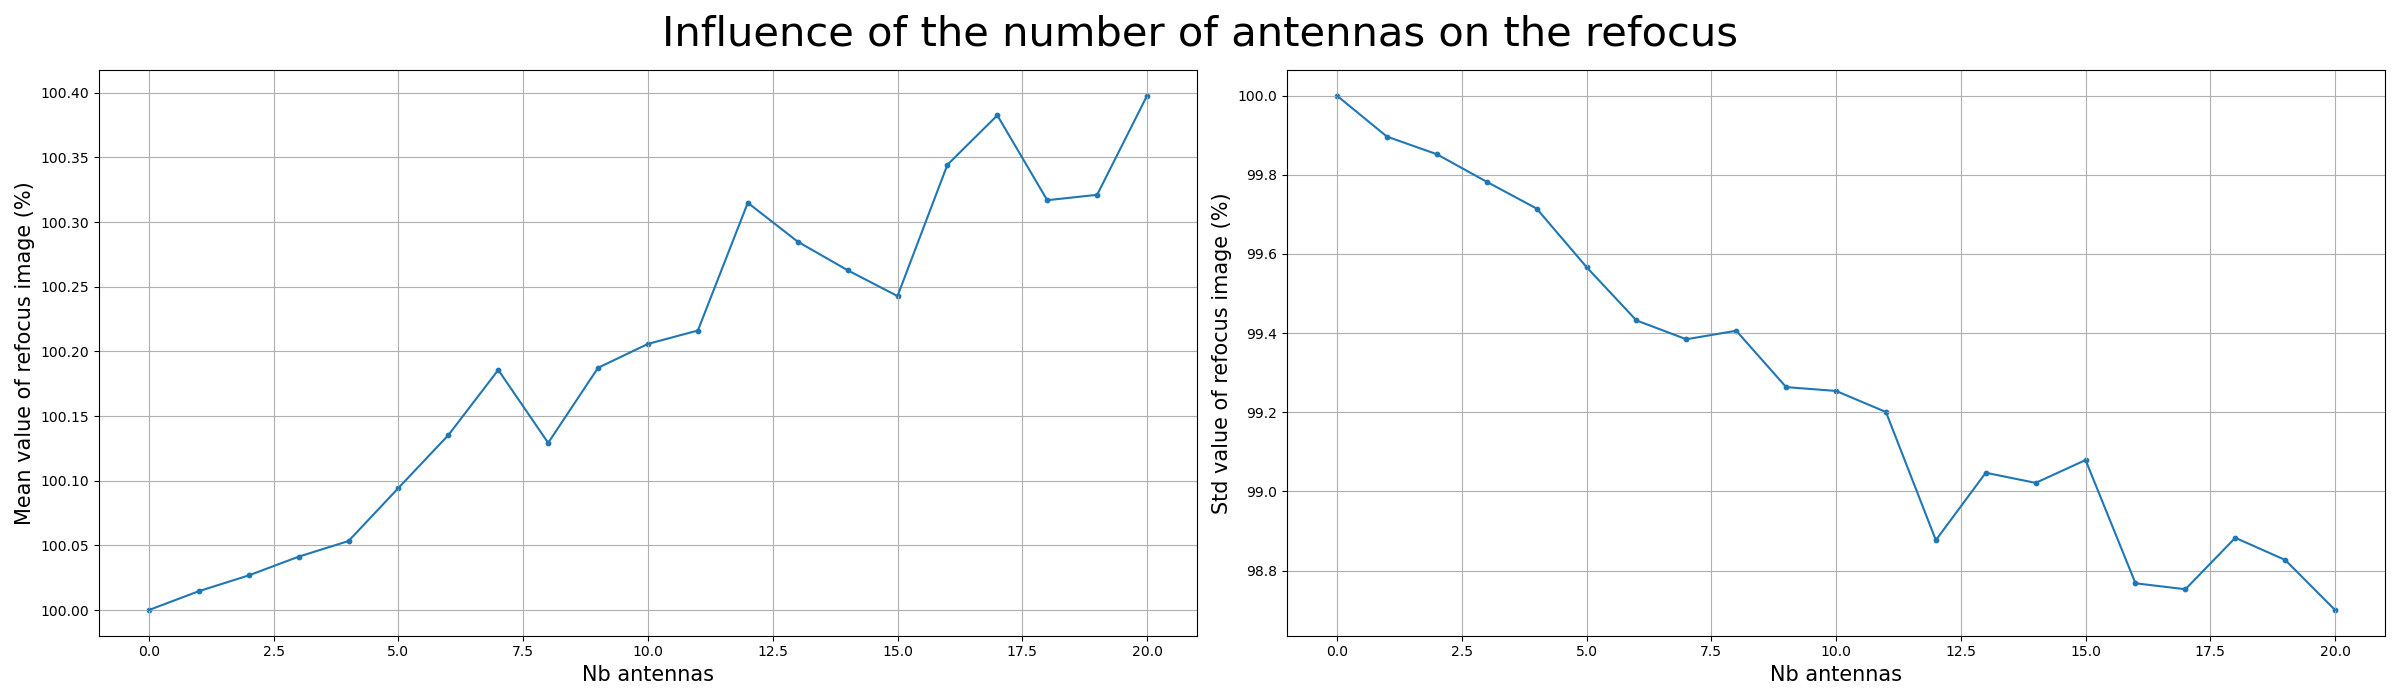
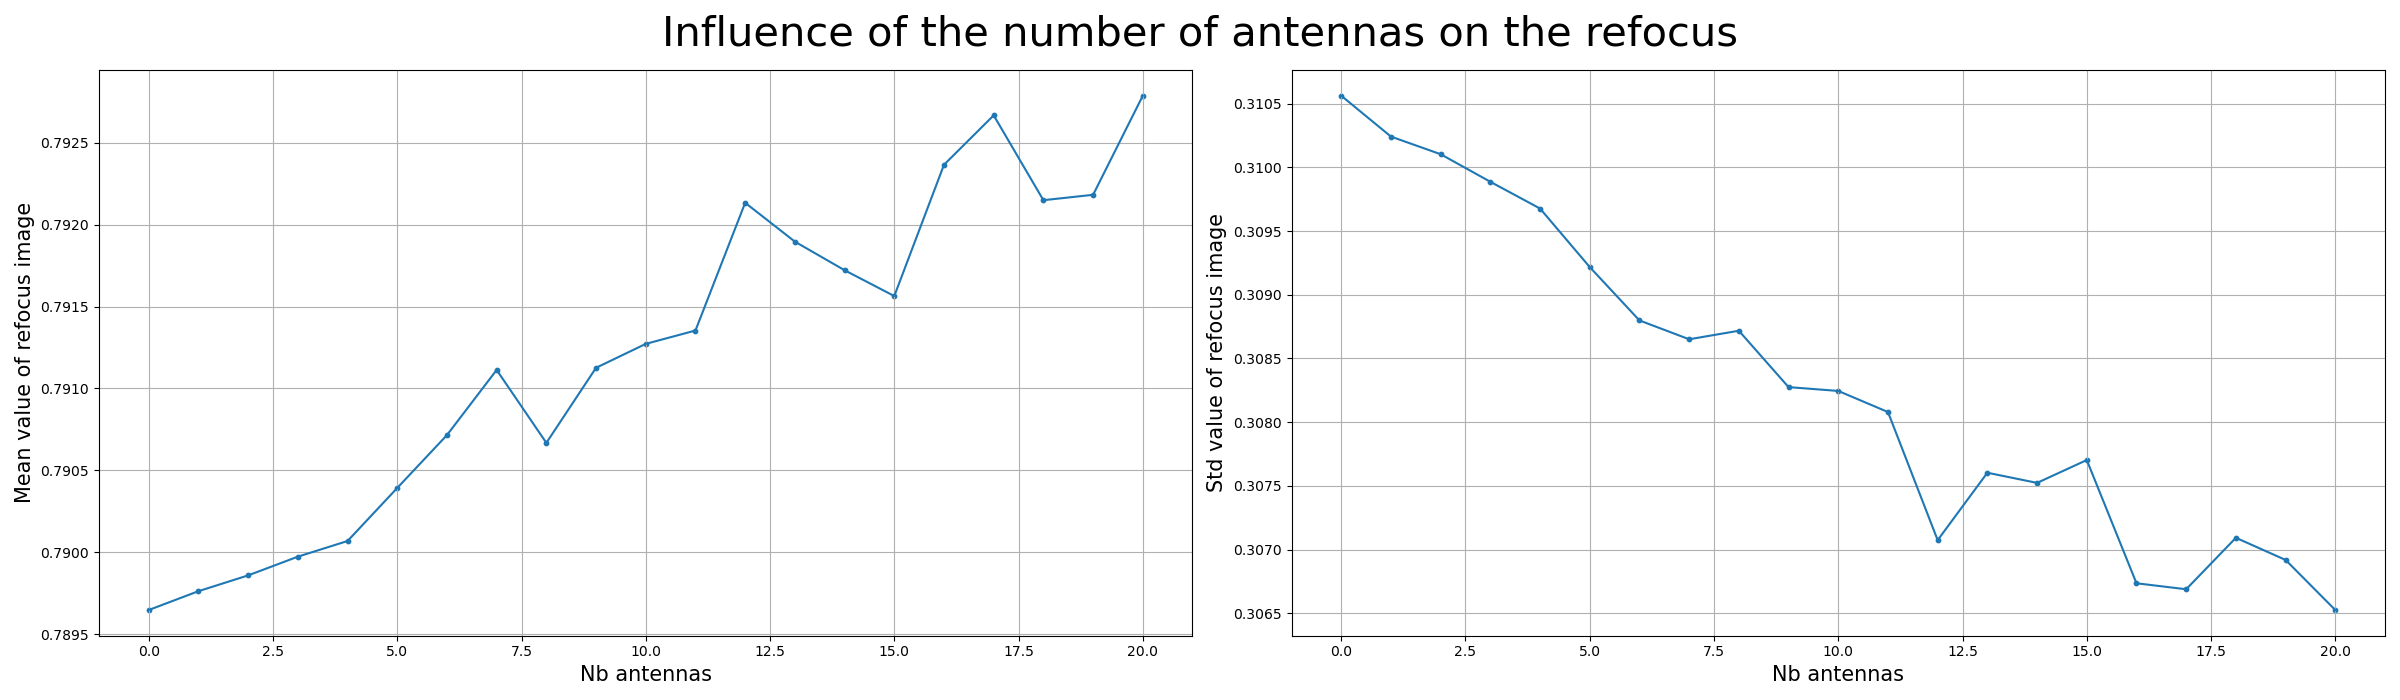
gif files modification

diff --git a/graphs.py b/graphs.py
@@ -24,20 +24,20 @@ def fig_analysis(path):
         fig_path = os.getcwd() + '/' + path + "/" + fig
         im = plt.imread(fig_path)
         antennas_list.append(int(fig.split('antennas')[0]))
-        means.append(100*np.mean(im)/mean_0)
-        stds.append(100*np.std(im)/std_0)
+        means.append(np.mean(im))
+        stds.append(np.std(im))
     
     fig, ax = plt.subplots(1, 2, figsize=(24, 7))
     ax[0].plot(antennas_list, means)
     ax[0].scatter(antennas_list, means, s=10)
     ax[0].set_xlabel("Nb antennas", fontsize=15)
-    ax[0].set_ylabel("Mean value of refocus image (%)", fontsize=15)
+    ax[0].set_ylabel("Mean value of refocus image", fontsize=15)
     ax[0].grid()
 
     ax[1].plot(antennas_list, stds)
     ax[1].scatter(antennas_list, stds, s=10)
     ax[1].set_xlabel("Nb antennas", fontsize=15)
-    ax[1].set_ylabel("Std value of refocus image (%)", fontsize=15)
+    ax[1].set_ylabel("Std value of refocus image", fontsize=15)
     ax[1].grid()
 
     fig.suptitle("Influence of the number of antennas on the refocus", fontsize=30)

diff --git a/main.py b/main.py
@@ -4,8 +4,6 @@ from focus import Focus
 
 if __name__ == "__main__":
     emission = Emission(nb_antennas=4)
-    sim_report, positions_antennas = emission.simulate() #render=True)
-    print(len(sim_report))
-    print(len(sim_report["A_1"]))
-    # focus = Focus(sim_report, positions_antennas)
-    # focus.simulate(render=True)
+    sim_report, positions_antennas = emission.simulate(render=True)
+    focus = Focus(sim_report, positions_antennas)
+    focus.simulate(render=True)

diff --git a/acquisition.py b/acquisition.py
@@ -91,7 +91,7 @@ class Emission():
         if render:
             frames = [f"emission/{it}.png" for it in range(10*Nt)]
             frames_im = [imageio.imread(fram) for fram in frames]
-            imageio.mimsave("emission.gif", frames_im, duration=20)
+            imageio.mimsave("emission.gif", frames_im, fps=50)
 
             for f in os.listdir("emission/"):
                 os.remove(f"emission/{f}")

diff --git a/focus.py b/focus.py
@@ -71,7 +71,7 @@ class Focus:
         if render:
             frames = [f"focus/{it}.png" for it in range(10*Nt + 100)]
             frames_im = [imageio.imread(fram) for fram in frames]
-            imageio.mimsave("focus.gif", frames_im, duration=20)
+            imageio.mimsave("focus.gif", frames_im, fps=50)
 
             for f in os.listdir("focus/"):
                 os.remove(f"focus/{f}")
